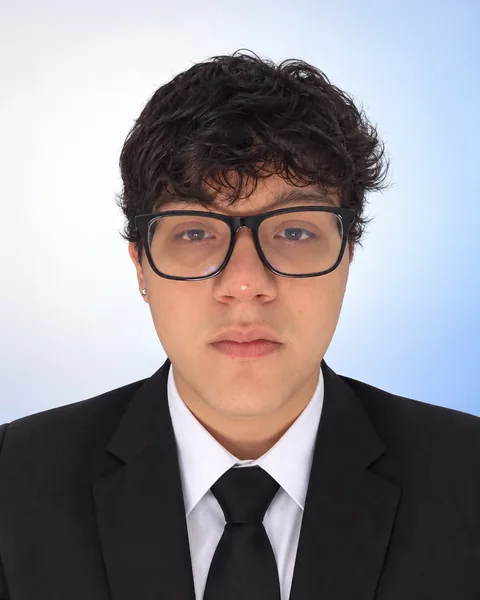
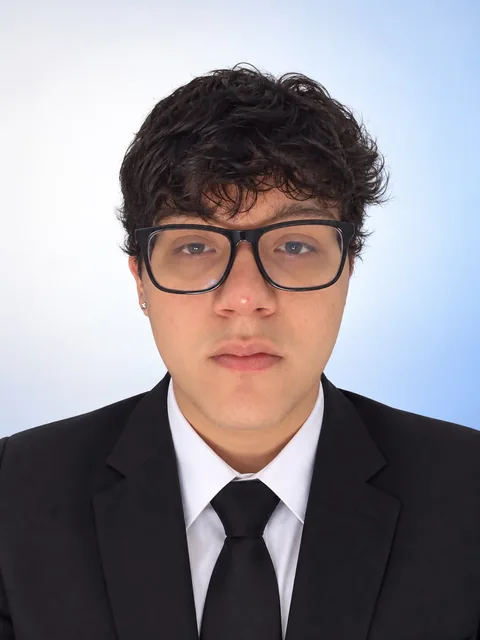
Muestra los retratos completos sin recorte
- Regenera los retratos desde el original sin recortar: cada foto
  conserva su proporción nativa (3:4 en dos, 1:1 en la de Juan)
- El marco toma la proporción de la foto vía --retrato, así object-fit
  no recorta nada en ningún socio
- Acota la columna del retrato a 420px para que la ficha siga cabiendo
  en pantallas de 768px de alto
- Pasa a una columna por debajo de 620px, que antes resolvía auto-fit

diff --git a/styles.css b/styles.css
@@ -253,9 +253,9 @@ details[open] > summary > .plus { transform: rotate(45deg); color: var(--accent)
 .roster.is-open li:not(.is-active) { transform: scale(.96); opacity: .3; filter: blur(1.5px); }
 .roster.is-open li.is-active { transform: scale(.99); opacity: .2; }
 .partner-overlay { position: fixed; inset: 0; z-index: 44; background: rgba(7, 21, 33, .34); animation: cpp-fade .35s ease both; }
-.partner-dialog { position: absolute; left: 0; right: 0; top: -40px; z-index: 45; display: grid; grid-template-columns: repeat(auto-fit, minmax(260px, 1fr)); overflow: hidden; background: var(--surface); border: 1px solid rgba(7, 21, 33, .12); border-radius: 24px; box-shadow: 0 60px 110px -50px rgba(7, 21, 33, .6); animation: cpp-pop .45s cubic-bezier(.16, .86, .26, 1) both; }
-.partner-portrait { position: relative; overflow: hidden; min-height: 278px; background-color: #eaeeef; background-image: repeating-linear-gradient(135deg, rgba(7, 21, 33, .05) 0 1px, transparent 1px 10px); }
-.partner-portrait img { position: absolute; inset: 0; width: 100%; height: 100%; object-fit: cover; object-position: 50% 15%; }
+.partner-dialog { position: absolute; left: 0; right: 0; top: -40px; z-index: 45; display: grid; grid-template-columns: minmax(240px, 420px) minmax(260px, 1fr); overflow: hidden; background: var(--surface); border: 1px solid rgba(7, 21, 33, .12); border-radius: 24px; box-shadow: 0 60px 110px -50px rgba(7, 21, 33, .6); animation: cpp-pop .45s cubic-bezier(.16, .86, .26, 1) both; }
+.partner-portrait { position: relative; overflow: hidden; aspect-ratio: var(--retrato, 3 / 4); background-color: #eaeeef; background-image: repeating-linear-gradient(135deg, rgba(7, 21, 33, .05) 0 1px, transparent 1px 10px); }
+.partner-portrait img { position: absolute; inset: 0; width: 100%; height: 100%; object-fit: cover; object-position: center; }
 .partner-portrait strong { position: absolute; top: 50%; left: 50%; transform: translate(-50%, -50%); color: rgba(7, 21, 33, .14); font-size: clamp(4rem, 9vw, 7.75rem); font-weight: 800; letter-spacing: -.06em; }
 .partner-body { padding: clamp(22px, 2.4vw, 34px); }
 .partner-head { display: flex; align-items: flex-start; justify-content: space-between; gap: 16px; }
@@ -376,8 +376,11 @@ details[open] > summary > .plus { transform: rotate(45deg); color: var(--accent)
   .mid-cta { flex-direction: column; align-items: flex-start; }
 }
 
+@media (max-width: 620px) {
+  .partner-dialog { grid-template-columns: 1fr; }
+}
+
 @media (max-width: 560px) {
-  .partner-portrait { min-height: 0; aspect-ratio: 4 / 5; }
   .visual-caption { padding: 40px 16px 16px; }
   .signal-card-b { width: auto; }
   .hero-kicker { font-size: .64rem; }

diff --git a/script.js b/script.js
@@ -386,9 +386,9 @@ if (!reduceMotion) {
 const roster = document.querySelector('[data-roster]');
 if (roster) {
   const partners = [
-    { name: 'José Santana', initials: 'JS', role: 'Ingeniero de Software', linkedin: 'https://www.linkedin.com/in/jose-santana-sl-2005-pc/', photo: 'jose' },
-    { name: 'Darnell Cuba', initials: 'DC', role: 'Ingeniero de Software', linkedin: 'https://www.linkedin.com/in/darnell-cuba-vega-a7b91b377/', photo: 'darnell' },
-    { name: 'Juan Flores', initials: 'JF', role: 'Ingeniero de Software', linkedin: 'https://www.linkedin.com/in/juan-diego-flores-rios-425340311/', photo: 'juan' }
+    { name: 'José Santana', initials: 'JS', role: 'Ingeniero de Software', linkedin: 'https://www.linkedin.com/in/jose-santana-sl-2005-pc/', photo: 'jose', ratio: '1086 / 1448' },
+    { name: 'Darnell Cuba', initials: 'DC', role: 'Ingeniero de Software', linkedin: 'https://www.linkedin.com/in/darnell-cuba-vega-a7b91b377/', photo: 'darnell', ratio: '1086 / 1448' },
+    { name: 'Juan Flores', initials: 'JF', role: 'Ingeniero de Software', linkedin: 'https://www.linkedin.com/in/juan-diego-flores-rios-425340311/', photo: 'juan', ratio: '1254 / 1254' }
   ];
   const dialog = roster.querySelector('[data-partner-dialog]');
   const overlay = roster.querySelector('[data-partner-overlay]');
@@ -412,9 +412,13 @@ if (roster) {
     dialog.querySelector('[data-partner-initials]').textContent = partner.initials;
     dialog.querySelector('[data-partner-role]').textContent = partner.role;
     const photo = dialog.querySelector('[data-partner-photo]');
+    photo.closest('.partner-portrait').style.setProperty('--retrato', partner.ratio);
     photo.src = `assets/team/${partner.photo}-480.webp`;
     photo.srcset = `assets/team/${partner.photo}-480.webp 480w, assets/team/${partner.photo}-960.webp 960w`;
     photo.alt = `Retrato de ${partner.name}`;
+    const [anchoNat, altoNat] = partner.ratio.split('/').map(Number);
+    photo.width = 480;
+    photo.height = Math.round(480 * altoNat / anchoNat);
     const profile = dialog.querySelector('[data-partner-link]');
     profile.href = partner.linkedin;
     profile.setAttribute('aria-label', `Ver el perfil de ${partner.name} en LinkedIn`);

diff --git a/index.html b/index.html
@@ -22,8 +22,8 @@
     <link rel="preload" href="assets/plus-jakarta-sans-latin.woff2" as="font" type="font/woff2" crossorigin />
     <link rel="preload" href="assets/hero.webp" as="image" type="image/webp" fetchpriority="high" />
     <link rel="preconnect" href="https://cdn.jsdelivr.net" />
-    <link rel="stylesheet" href="styles.css?v=8" />
-    <script defer src="script.js?v=7"></script>
+    <link rel="stylesheet" href="styles.css?v=9" />
+    <script defer src="script.js?v=9"></script>
   </head>
   <body>
     <a class="skip-link" href="#contenido">Saltar al contenido</a>
@@ -383,9 +383,9 @@
 
           <div class="partner-overlay" data-partner-overlay hidden></div>
           <div class="partner-dialog" data-partner-dialog role="dialog" aria-modal="true" aria-labelledby="partner-name" hidden>
-            <div class="partner-portrait">
+            <div class="partner-portrait" style="--retrato: 1086 / 1448">
               <strong data-partner-initials aria-hidden="true">JS</strong>
-              <img data-partner-photo src="assets/team/jose-480.webp" srcset="assets/team/jose-480.webp 480w, assets/team/jose-960.webp 960w" sizes="(max-width: 560px) 100vw, 50vw" width="480" height="600" alt="Retrato de José Santana" decoding="async" fetchpriority="low" />
+              <img data-partner-photo src="assets/team/jose-480.webp" srcset="assets/team/jose-480.webp 480w, assets/team/jose-960.webp 960w" sizes="(max-width: 620px) 100vw, 420px" width="480" height="640" alt="Retrato de José Santana" decoding="async" fetchpriority="low" />
             </div>
             <div class="partner-body">
               <div class="partner-head">
